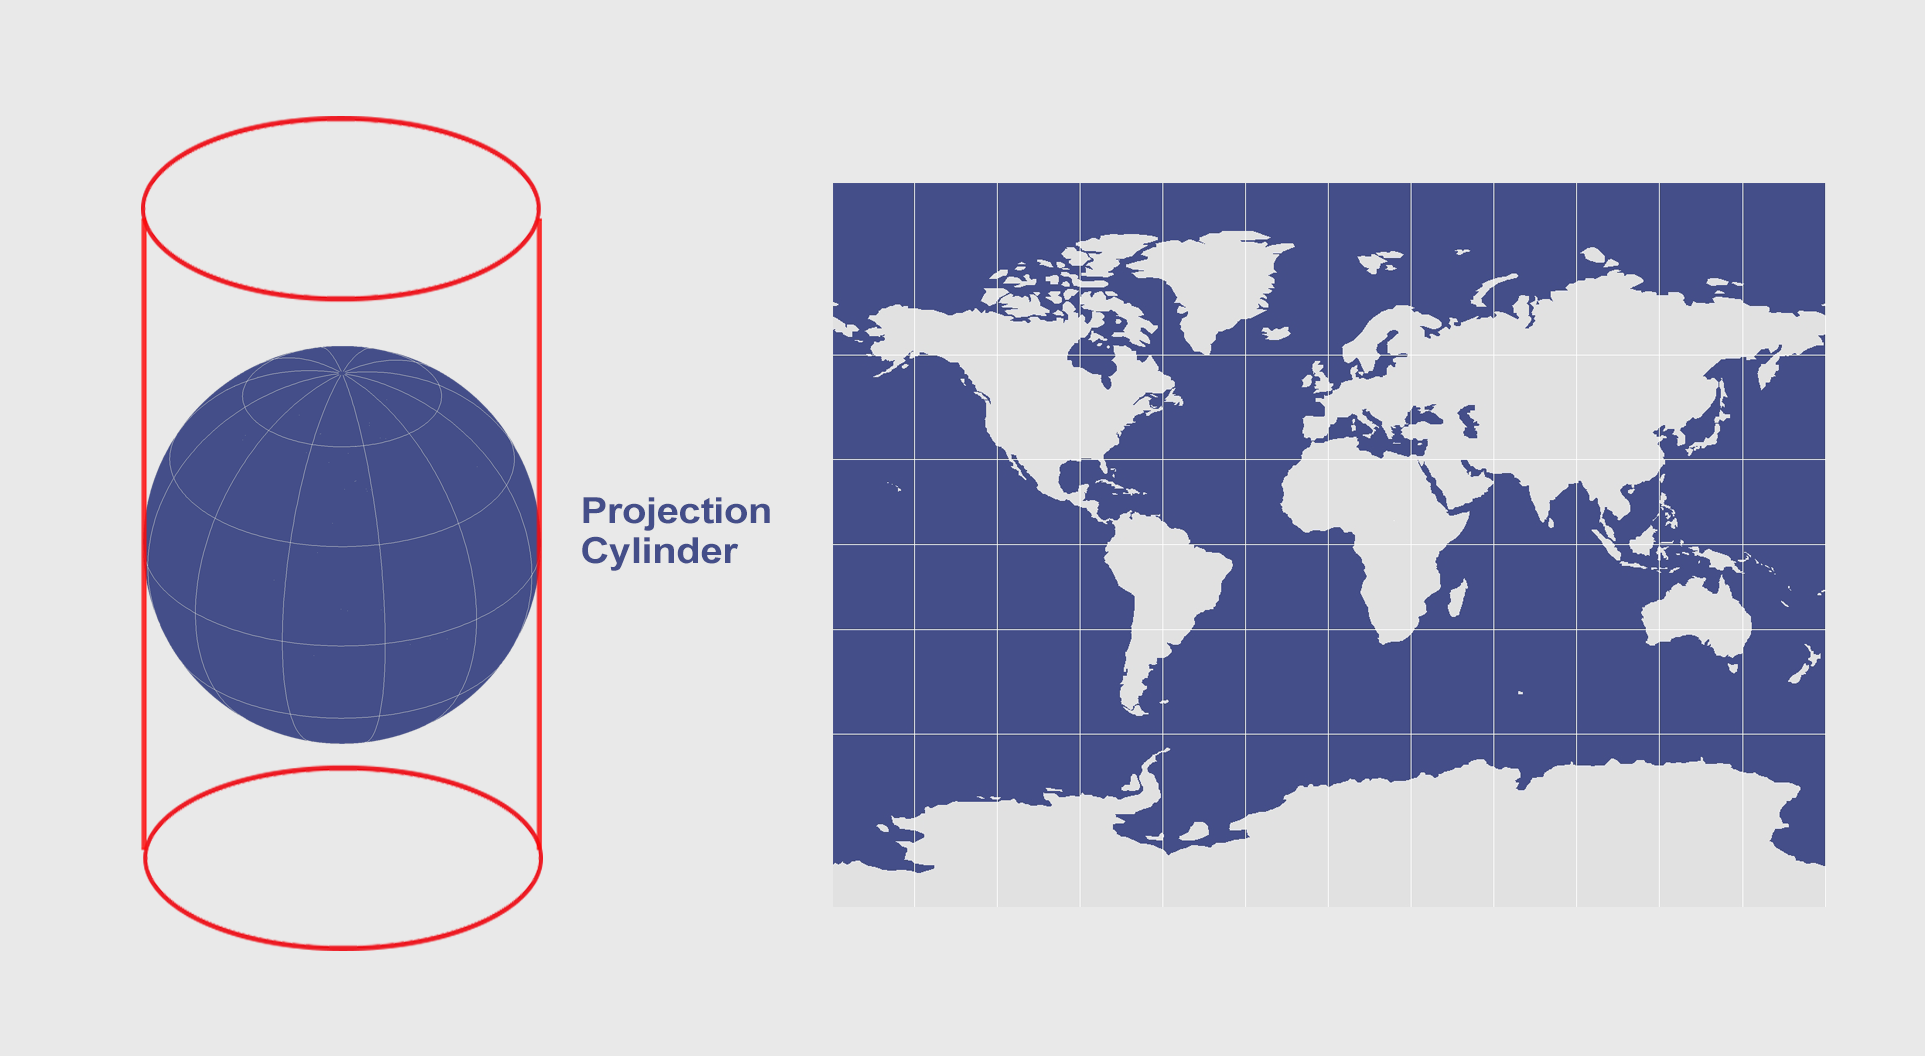
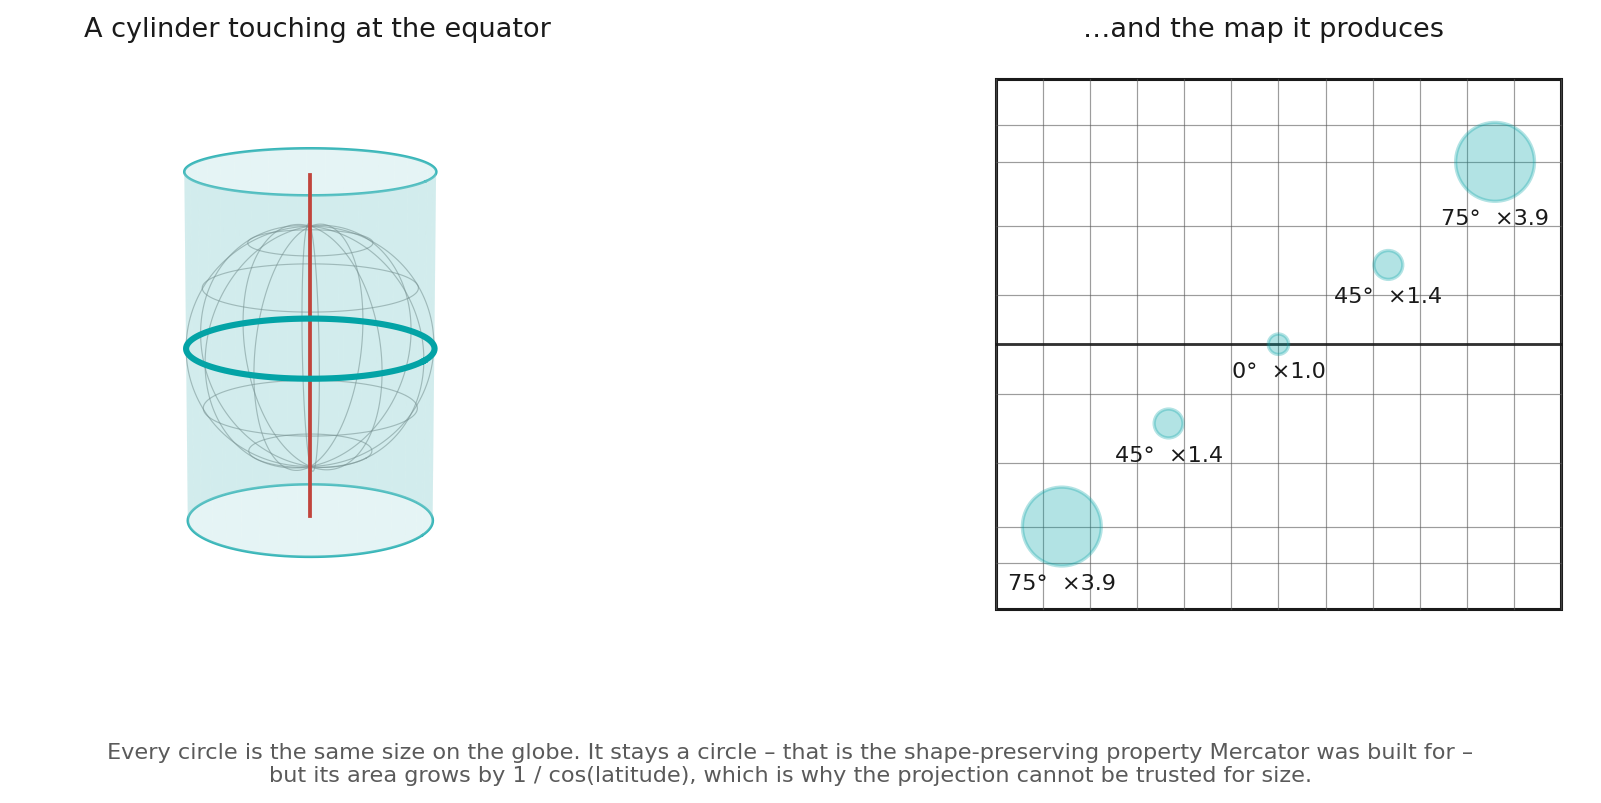
fix: minor fixes

diff --git a/notebooks/module_2/images/mercator.py b/notebooks/module_2/images/mercator.py
@@ -1,0 +1,114 @@
+"""Generates mercator.png – how the Mercator projection is built, and what it costs.
+
+Left: the cylinder wrapped around the globe, touching it at the equator.
+Right: the graticule that results, carrying circles that are all the *same size
+on the globe*. They stay circles – that is conformality, the property Mercator
+was built for – and they grow towards the poles by exactly 1 / cos(latitude),
+which is the area distortion the section goes on to discuss.
+
+Run from this folder:  python mercator.py
+"""
+
+import matplotlib.pyplot as plt
+import numpy as np
+
+TEAL = "#03A3A6"
+TEAL_LIGHT = "#9BD7D8"
+GREY = "#5A5A5A"
+INK = "#1A1A1A"
+POINT = "#C1443C"
+
+CUTOFF = 84.0        # the graticule is drawn to here; the poles never arrive
+EQUATOR_RADIUS = 6.5  # radius of the equatorial circle, in degrees of longitude
+
+# one circle per latitude, spread across the map so none of them overlap
+CIRCLES = ((-75, -138), (-45, -70), (0, 0), (45, 70), (75, 138))
+
+
+def mercator_y(lat_degrees):
+    """Mercator northing, in the same units as longitude so the aspect is true."""
+    lat = np.radians(lat_degrees)
+    return np.degrees(np.log(np.tan(np.pi / 4 + lat / 2)))
+
+
+fig = plt.figure(figsize=(11.6, 4.8))
+
+# ------------------------------------------------- left: the construction
+ax = fig.add_subplot(1, 2, 1, projection="3d")
+
+angle = np.linspace(0, 2 * np.pi, 120)
+for lat in range(-60, 61, 30):
+    phi = np.radians(lat)
+    r = np.cos(phi)
+    ax.plot(r * np.cos(angle), r * np.sin(angle), np.full_like(angle, np.sin(phi)),
+            color=GREY, linewidth=0.5, alpha=0.55)
+theta = np.linspace(-np.pi / 2, np.pi / 2, 90)
+for lon in range(0, 360, 30):
+    lam = np.radians(lon)
+    ax.plot(np.cos(theta) * np.cos(lam), np.cos(theta) * np.sin(lam), np.sin(theta),
+            color=GREY, linewidth=0.5, alpha=0.55)
+
+# the cylinder, tangent along the equator
+height = np.linspace(-1.45, 1.45, 2)
+grid_angle, grid_height = np.meshgrid(angle, height)
+ax.plot_surface(np.cos(grid_angle), np.sin(grid_angle), grid_height,
+                color=TEAL_LIGHT, alpha=0.25, linewidth=0, shade=False)
+for end in (-1.45, 1.45):
+    ax.plot(np.cos(angle), np.sin(angle), np.full_like(angle, end),
+            color=TEAL, linewidth=1.1, alpha=0.8)
+
+# the line of contact
+ax.plot(np.cos(angle), np.sin(angle), np.zeros_like(angle),
+        color=TEAL, linewidth=2.6, zorder=7)
+ax.plot([0, 0], [0, 0], [-1.42, 1.42], color=POINT, linewidth=1.6, zorder=6)
+
+ax.set_xlim(-1.3, 1.3)
+ax.set_ylim(-1.3, 1.3)
+ax.set_zlim(-1.5, 1.5)
+ax.set_box_aspect((1, 1, 1.15))
+ax.view_init(elev=14, azim=-64)
+ax.axis("off")
+
+# --------------------------------------------------- right: the resulting map
+ax = fig.add_subplot(1, 2, 2)
+
+top = mercator_y(CUTOFF)
+for lon in range(-180, 181, 30):
+    ax.plot([lon, lon], [-top, top], color=GREY, linewidth=0.5, alpha=0.6)
+for lat in (-80, -75, -60, -30, 30, 60, 75, 80):
+    y = mercator_y(lat)
+    ax.plot([-180, 180], [y, y], color=GREY, linewidth=0.5, alpha=0.6)
+
+ax.plot([-180, 180], [0, 0], color=INK, linewidth=1.2, alpha=0.9)
+ax.add_patch(plt.Rectangle((-180, -top), 360, 2 * top, facecolor="none",
+                           edgecolor=INK, linewidth=1.3))
+
+# circles that are all the same size on the globe
+for lat, lon in CIRCLES:
+    scale = 1 / np.cos(np.radians(lat))
+    radius = EQUATOR_RADIUS * scale
+    y = mercator_y(lat)
+    ax.add_patch(plt.Circle((lon, y), radius, facecolor=TEAL, alpha=0.30,
+                            edgecolor=TEAL, linewidth=1.4, zorder=4))
+    ax.annotate(f"{abs(lat)}°  ×{scale:.1f}", xy=(lon, y - radius),
+                xytext=(lon, y - radius - 5), ha="center", va="top",
+                fontsize=9.5, color=INK, zorder=5)
+
+ax.set_xlim(-195, 195)
+ax.set_ylim(-top - 20, top + 6)
+ax.set_aspect("equal")
+ax.axis("off")
+
+# both titles placed by hand, so the two panels line up
+fig.text(0.26, 0.94, "A cylinder touching at the equator",
+         ha="center", fontsize=11.5, color=INK)
+fig.text(0.74, 0.94, "…and the map it produces",
+         ha="center", fontsize=11.5, color=INK)
+fig.text(0.5, 0.075,
+         "Every circle is the same size on the globe. It stays a circle – that is the "
+         "shape-preserving property Mercator was built for –\nbut its area grows by "
+         "1 / cos(latitude), which is why the projection cannot be trusted for size.",
+         ha="center", va="top", fontsize=9.5, color=GREY)
+
+fig.subplots_adjust(left=0.01, right=0.99, top=0.90, bottom=0.20, wspace=0.02)
+fig.savefig("mercator.png", dpi=170, facecolor="white", bbox_inches="tight")

diff --git a/notebooks/module_0/syllabus.md b/notebooks/module_0/syllabus.md
@@ -81,7 +81,7 @@ Almost everything comes from the City of Vienna's open data portal, [data.wien.g
 
 | File | Content | Source |
 | --- | --- | --- |
-| `vienna_admin.gpkg` | boundaries of the 23 districts and the 250 census districts (layers `district` and `zaehlbezirk`) | [Bezirksgrenzen Wien](https://www.data.gv.at/katalog/dataset/stadt-wien_bezirksgrenzenwien) (`ogdwien:BEZIRKSGRENZEOGD`) and Zählbezirke Wien (`ogdwien:ZAEHLBEZIRKOGD`) |
+| `vienna_admin.gpkg` | boundaries of the 23 districts and the 250 census districts (layers `district` and `zaehlbezirk`) | Bezirksgrenzen Wien (`ogdwien:BEZIRKSGRENZEOGD`) and Zählbezirke Wien (`ogdwien:ZAEHLBEZIRKOGD`) |
 | `vienna_metro.geojson` | U-Bahn stations, with line number and year of opening | U-Bahnhaltestellen Wien (`ogdwien:UBAHNHALTOGD`) |
 | `vienna_top_locations.csv` | ~135 well-known places to visit – museums, cafés, concert halls, shops – with coordinates in `geo_latitude` and `geo_longitude` | [Top Locations Wien](https://www.data.gv.at/katalog/dataset/45d684ca-6ad7-4c5e-a721-64aa31795824) |
 | `vienna_buildings.csv` | the city's building register: year of construction, storeys, type of use, architect; geometry as WKT text in the `SHAPE` column | Gebäudeinfo Wien (`ogdwien:GEBAEUDEINFOOGD`) |
